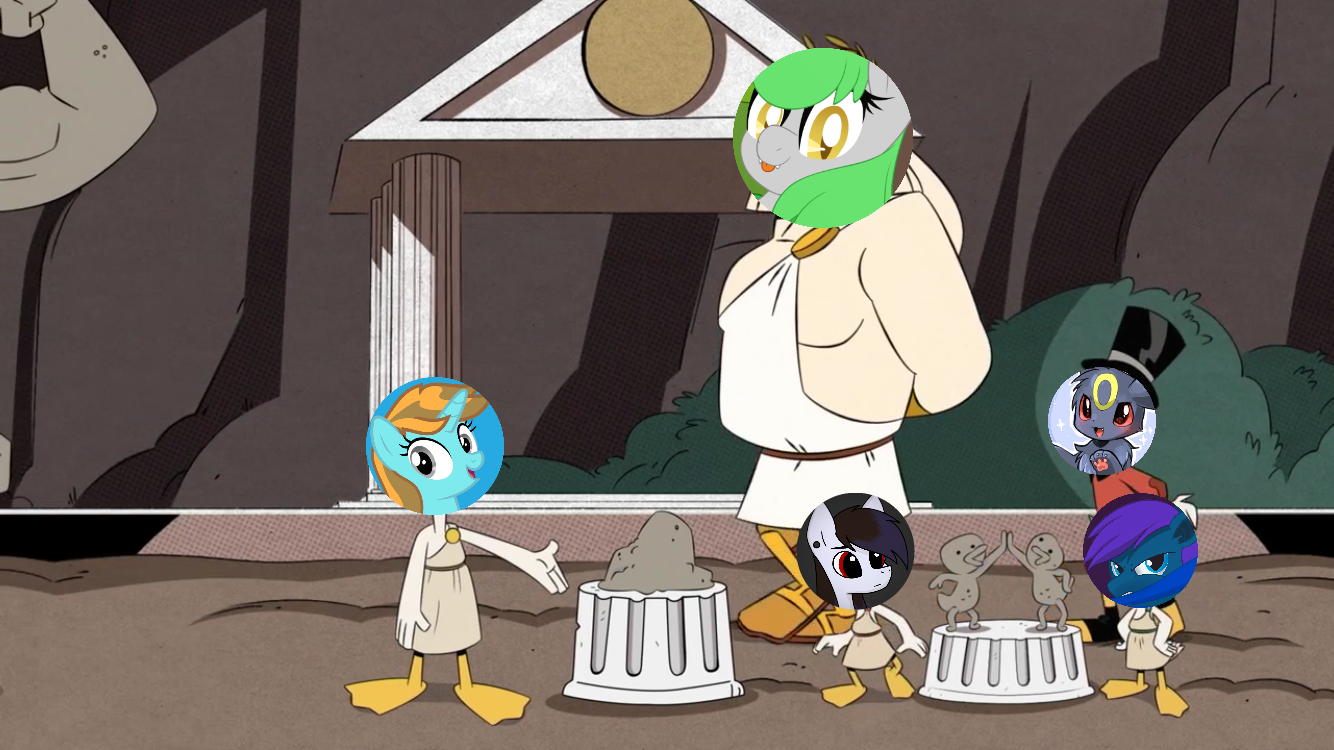
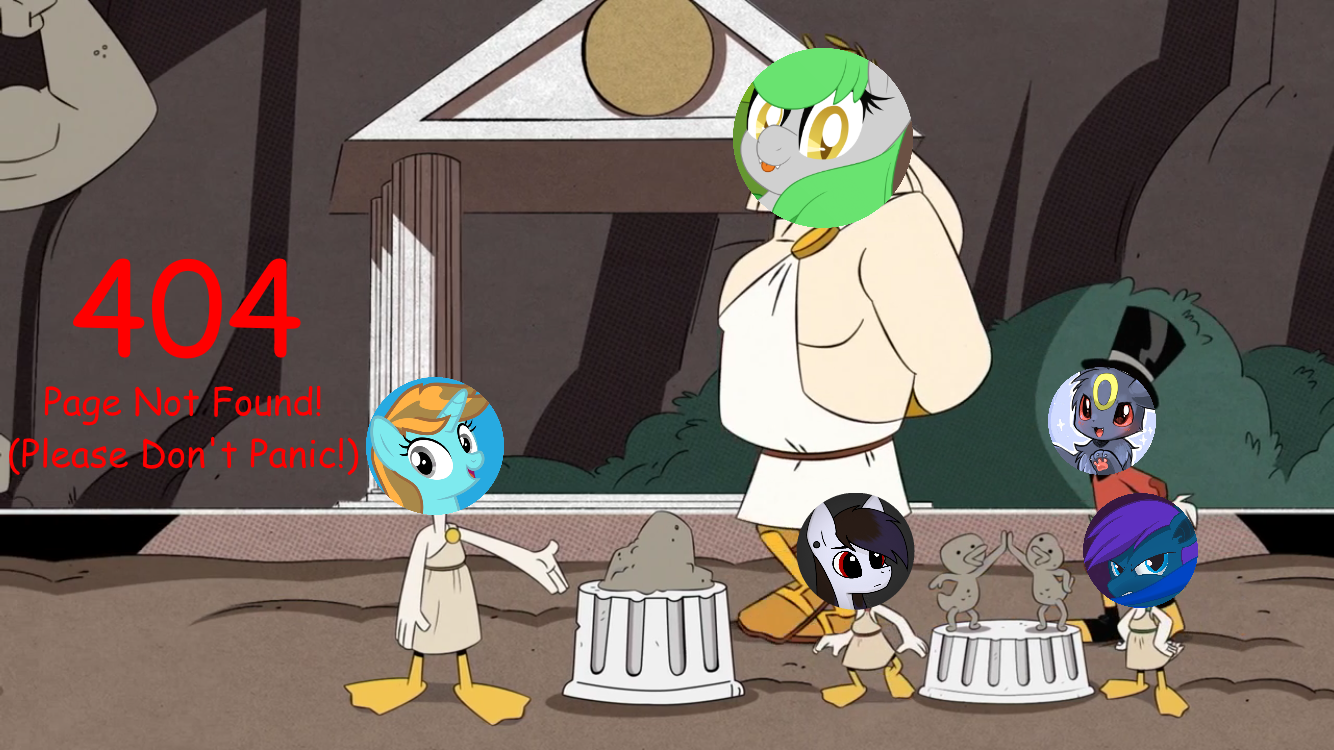
404 page
Updated asset and added the actual page.

Changed region(s): [[0.0, 0.5213, 0.2766, 0.644], [0.0615, 0.3373, 0.2151, 0.4907]]

diff --git a/404.html b/404.html
@@ -1,0 +1,20 @@
+<html>
+
+<style type="text/css">body {
+    background-image: url(https://minelittlepony-mod.com/assets/404.png);
+    background-repeat: no-repeat;
+    background-position: center;
+    }
+
+
+html { overflow-x: hidden; }
+html { overflow-y: hidden; }
+
+</style>
+
+<body>
+
+<center><img src="https://minelittlepony-mod.com/assets/derpy404.gif"></img></center>
+
+</body>
+</html>
